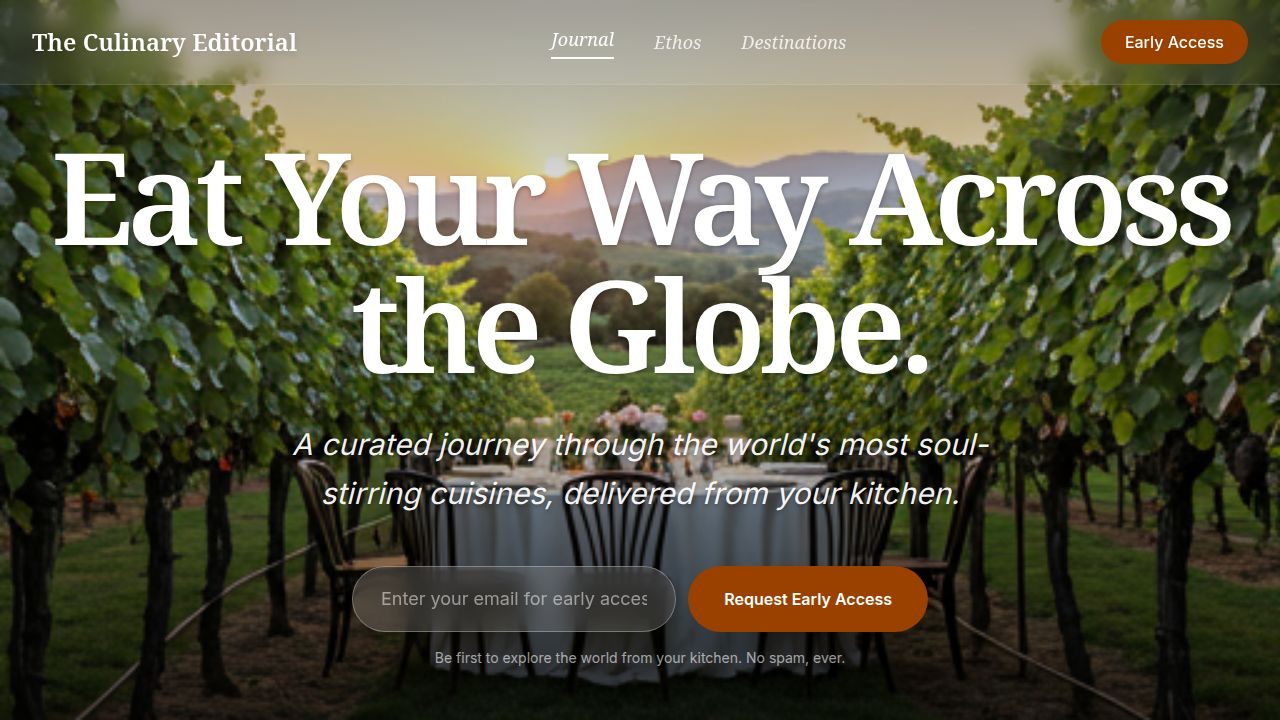
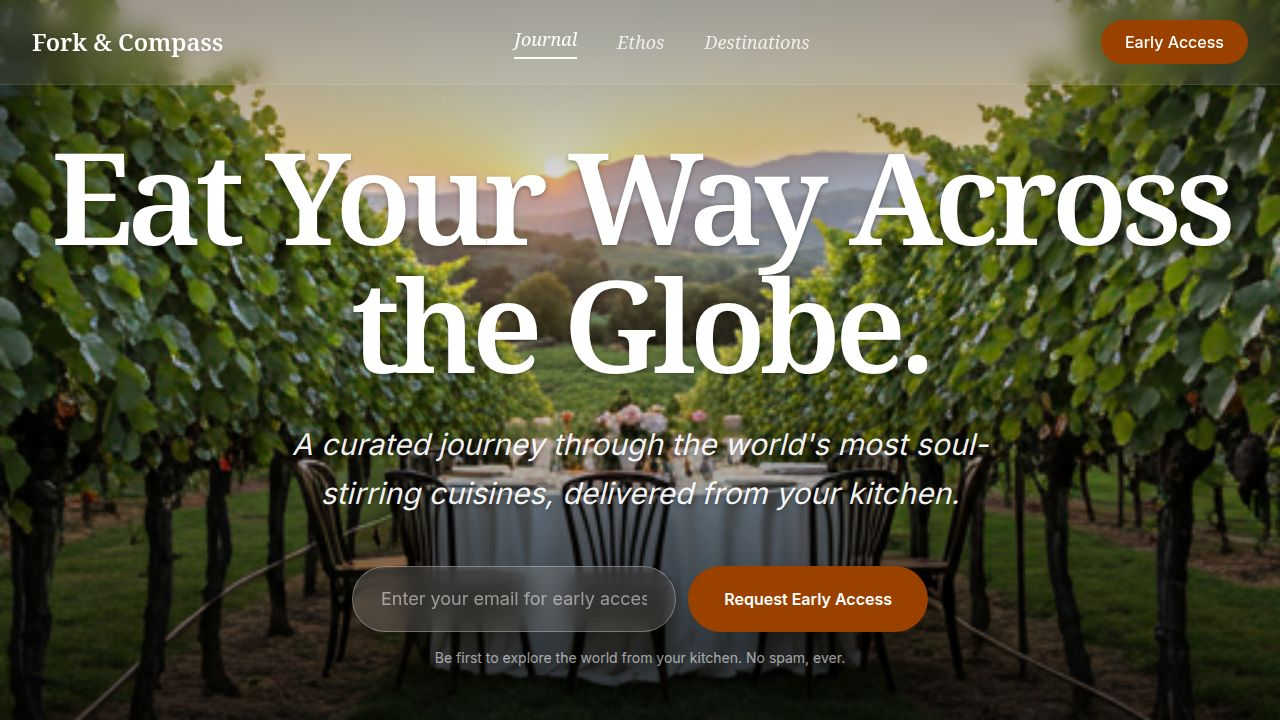
Update website and mobile app branding to a new name
Replace all instances of "The Culinary Editorial" with "Fork & Compass" across the landing page, mobile app configuration, and markdown documentation.

Replit-Commit-Author: Agent
Replit-Commit-Session-Id: e59cf5c3-e068-4184-8317-1e8a09935787
Replit-Commit-Checkpoint-Type: full_checkpoint
Replit-Commit-Event-Id: 2902f53b-ef19-4681-9f74-e741dcd22969
Replit-Commit-Screenshot-Url: https://storage.googleapis.com/screenshot-production-us-central1/f9f10c50-ac73-4a13-b8b7-25c7068fa91a/e59cf5c3-e068-4184-8317-1e8a09935787/Uaxoc9R
Replit-Helium-Checkpoint-Created: true

Changed region(s): [[0.4062, 0.0306, 0.6562, 0.0917], [0.0312, 0.0306, 0.2188, 0.0917]]

diff --git a/artifacts/landing/src/pages/LandingPage.tsx b/artifacts/landing/src/pages/LandingPage.tsx
@@ -87,7 +87,7 @@ export default function LandingPage() {
             className="text-xl sm:text-2xl font-semibold text-white drop-shadow-md"
             style={{ fontFamily: "'Noto Serif', Georgia, serif" }}
           >
-            The Culinary Editorial
+            Fork & Compass
           </div>
           {/* Desktop nav links */}
           <div className="hidden md:flex items-center space-x-10">
@@ -385,7 +385,7 @@ export default function LandingPage() {
                 color: "#1d1b18",
               }}
             >
-              "The Culinary Editorial isn't just a recipe box. It's an evening of discovery that turns my Tuesday night kitchen into a sun-drenched bistro in Provence. Every ingredient tells a story."
+              "Fork & Compass isn't just a recipe box. It's an evening of discovery that turns my Tuesday night kitchen into a sun-drenched bistro in Provence. Every ingredient tells a story."
             </blockquote>
             <div className="flex flex-col items-center gap-5 sm:gap-6">
               <div
@@ -500,7 +500,7 @@ export default function LandingPage() {
               className="block font-bold"
               style={{ fontFamily: "'Noto Serif', Georgia, serif", fontSize: "clamp(1.5rem, 3vw, 2.25rem)", color: "#9a4100" }}
             >
-              The Culinary Editorial
+              Fork & Compass
             </span>
             <p className="text-lg leading-relaxed max-w-md" style={{ color: "#725a3c" }}>
               Curating the world's most evocative food stories and delivering the soul of global cuisines directly to your home.
@@ -580,7 +580,7 @@ export default function LandingPage() {
           style={{ borderTop: "1px solid rgba(222,193,179,0.2)" }}
         >
           <p className="text-sm" style={{ color: "#725a3c" }}>
-            © 2024 The Culinary Editorial. All rights reserved. Designed for the global explorer.
+            © 2024 Fork & Compass. All rights reserved. Designed for the global explorer.
           </p>
         </div>
       </footer>

diff --git a/artifacts/landing/index.html b/artifacts/landing/index.html
@@ -3,9 +3,9 @@
   <head>
     <meta charset="UTF-8" />
     <meta name="viewport" content="width=device-width, initial-scale=1.0, maximum-scale=1" />
-    <title>The Culinary Editorial — Eat Your Way Across the Globe</title>
-    <meta name="description" content="Discover world-class recipes, culinary travel guides, and tasting notes curated by The Culinary Editorial. Explore cuisines from Morocco to Italy." />
-    <meta property="og:title" content="The Culinary Editorial" />
+    <title>Fork & Compass — Eat Your Way Across the Globe</title>
+    <meta name="description" content="Discover world-class recipes, culinary travel guides, and tasting notes curated by Fork & Compass. Explore cuisines from Morocco to Italy." />
+    <meta property="og:title" content="Fork & Compass" />
     <meta property="og:description" content="Eat Your Way Across the Globe. Premium culinary travel recipes and editorial content." />
     <meta property="og:type" content="website" />
     <link rel="icon" type="image/svg+xml" href="/favicon.svg" />

diff --git a/artifacts/mobile/app/country/[id].tsx b/artifacts/mobile/app/country/[id].tsx
@@ -51,7 +51,7 @@ export default function CountryDetailScreen() {
         <Pressable onPress={() => router.back()} style={styles.headerButton}>
           <Ionicons name="arrow-back" size={22} color={Colors.light.primary} />
         </Pressable>
-        <Text style={styles.headerTitle}>The Culinary Editorial</Text>
+        <Text style={styles.headerTitle}>Fork & Compass</Text>
         <Pressable
           onPress={() => {
             if (Platform.OS !== "web") Haptics.impactAsync(Haptics.ImpactFeedbackStyle.Medium);

diff --git a/artifacts/mobile/app/(tabs)/search.tsx b/artifacts/mobile/app/(tabs)/search.tsx
@@ -62,7 +62,7 @@ export default function SearchScreen() {
     <View style={styles.container}>
       <StatusBar style="dark" />
 
-      <TabHeader title="The Culinary Editorial" />
+      <TabHeader title="Fork & Compass" />
 
       {/* ── Sticky Search Bar ────────────────────────────────────── */}
       <View style={styles.topBar}>

diff --git a/artifacts/mobile/app/(tabs)/grocery.tsx b/artifacts/mobile/app/(tabs)/grocery.tsx
@@ -115,7 +115,7 @@ export default function GroceryScreen() {
         method: "POST",
         headers: { "Content-Type": "application/json" },
         body: JSON.stringify({
-          title: "My Culinary Editorial List",
+          title: "My Fork & Compass List",
           items: itemsToOrder.map((i) => ({
             name: i.name,
             amount: i.amount,

diff --git a/replit.md b/replit.md
@@ -106,7 +106,7 @@ Utility scripts package. Each script is a `.ts` file in `src/` with a correspond
 
 ### `artifacts/mobile` (`@workspace/mobile`)
 
-"The Culinary Editorial" — a premium culinary travel mobile app (Expo/React Native) with a high-end editorial magazine aesthetic.
+"Fork & Compass" — a premium culinary travel mobile app (Expo/React Native) with a high-end editorial magazine aesthetic.
 
 - **Design System**: Primary terracotta #9A4100, surface #FEF9F3, Noto Serif for headlines, Inter for body text, no-line border rule (sections defined by color shifts, not borders)
 - **Navigation**: Welcome → Onboarding (country picker) → Tab bar (Discover, Journeys, Saved, Profile) with NativeTabs (liquid glass) on iOS 26+, classic BlurView tabs fallback
